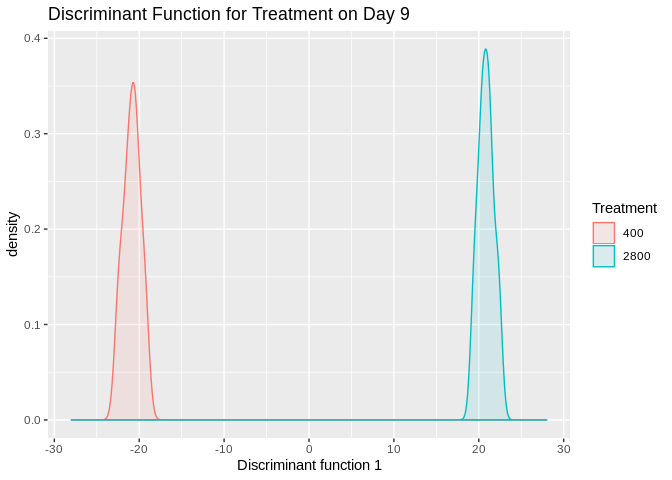
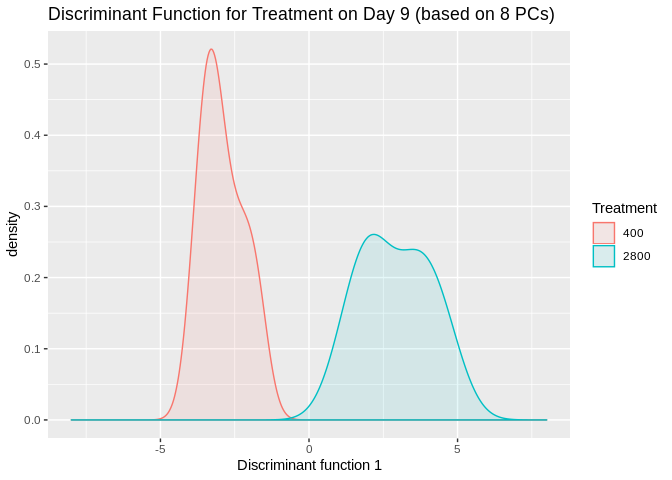
salmon run updates

diff --git a/markdown_files/Salmon_pipeline/02_salmon_multiVariateVisualization.md b/markdown_files/Salmon_pipeline/02_salmon_multiVariateVisualization.md
@@ -23,41 +23,33 @@ model$Pop <- as.factor(model$population)
 model$Lane <- as.factor(model$lane)
 model$SFV <-  interaction(model$Time,model$Treatment) # Creates single factor variable for combination of time and treatment
 
-gc <- readRDS("/home/downeyam/Github/2017OAExp_Oysters/input_files/salmon_RNA/out2/gene_countMatrix.RData")
+gc <- readRDS("/home/downeyam/Github/2017OAExp_Oysters/input_files/salmon_RNA/run20180512_gene_countMatrix_.RData")
+gc <- gc[-c(1:205),] #removing some no LOC genes (most trna)
 ```
 
 
 ```r
-(out <- adonis(t(gc)~Treatment*Time*Pop*Lane,data=model,permutations = 999))
+(out <- adonis(t(gc)~Treatment*Time+Pop+Lane,data=model,permutations = 999))
 ```
 
 ```
 ## 
 ## Call:
-## adonis(formula = t(gc) ~ Treatment * Time * Pop * Lane, data = model,      permutations = 999) 
+## adonis(formula = t(gc) ~ Treatment * Time + Pop + Lane, data = model,      permutations = 999) 
 ## 
 ## Permutation: free
 ## Number of permutations: 999
 ## 
 ## Terms added sequentially (first to last)
 ## 
-##                     Df SumsOfSqs  MeanSqs F.Model      R2 Pr(>F)   
-## Treatment            1   0.03682 0.036820 1.96940 0.08600  0.012 * 
-## Time                 1   0.03880 0.038800 2.07529 0.09062  0.004 **
-## Pop                  2   0.03294 0.016470 0.88092 0.07693  0.722   
-## Lane                 1   0.01824 0.018240 0.97562 0.04260  0.487   
-## Treatment:Time       1   0.01788 0.017880 0.95632 0.04176  0.506   
-## Treatment:Pop        2   0.03270 0.016349 0.87448 0.07637  0.746   
-## Time:Pop             2   0.03408 0.017039 0.91134 0.07959  0.674   
-## Treatment:Lane       1   0.01698 0.016983 0.90838 0.03967  0.618   
-## Time:Lane            1   0.01353 0.013528 0.72358 0.03160  0.912   
-## Pop:Lane             2   0.02765 0.013823 0.73933 0.06457  0.940   
-## Treatment:Time:Pop   2   0.03536 0.017681 0.94568 0.08259  0.617   
-## Treatment:Time:Lane  1   0.01446 0.014459 0.77337 0.03377  0.825   
-## Treatment:Pop:Lane   1   0.02109 0.021092 1.12815 0.04926  0.267   
-## Time:Pop:Lane        1   0.01286 0.012855 0.68759 0.03002  0.936   
-## Residuals            4   0.07478 0.018696         0.17466          
-## Total               23   0.42817                  1.00000          
+##                Df SumsOfSqs  MeanSqs F.Model      R2 Pr(>F)   
+## Treatment       1   0.03690 0.036898 2.21311 0.08615  0.003 **
+## Time            1   0.03884 0.038845 2.32990 0.09070  0.004 **
+## Pop             2   0.03303 0.016517 0.99066 0.07713  0.461   
+## Lane            1   0.01820 0.018199 1.09155 0.04249  0.254   
+## Treatment:Time  1   0.01787 0.017868 1.07175 0.04172  0.281   
+## Residuals      17   0.28343 0.016672         0.66180          
+## Total          23   0.42827                  1.00000          
 ## ---
 ## Signif. codes:  0 '***' 0.001 '**' 0.01 '*' 0.05 '.' 0.1 ' ' 1
 ```
@@ -76,10 +68,10 @@ ordiplot(prin_comp,type="n")
 orditorp(prin_comp,display="sites",labels = FALSE,col=model$colors,cex = 2,pch = 16)
 #ordiellipse(prin_comp,model$SFV,conf=0.90,col = color_comb,lwd = 3)
 ordispider(prin_comp,model$SFV,col = color_comb,lwd=2.5)
-legend(x=250,y=-200,legend = c("Day09_Control","Day80_Control","Day09_OA","Day80_OA"),pch = 16,col=color_comb,xpd = .25)
-text(x = -570 ,y = -300, paste0("Adonis P_Treatment = ",out$aov.tab$`Pr(>F)`[1],"*"))
-text(x = -580 ,y = -360, paste0("Adonis P_Duration = ",out$aov.tab$`Pr(>F)`[2],"*"))
-text(x = -570 ,y = -420, paste0("Adonis P_Interaction = ",out$aov.tab$`Pr(>F)`[3]))
+legend(x=220,y=-150,legend = c("Day09_Control","Day80_Control","Day09_OA","Day80_OA"),pch = 16,col=color_comb,xpd = .25)
+text(x = -538 ,y = -300, paste0("Adonis P_Treatment = ",out$aov.tab$`Pr(>F)`[1],"*"))
+text(x = -550 ,y = -360, paste0("Adonis P_Duration = ",out$aov.tab$`Pr(>F)`[2],"*"))
+text(x = -540 ,y = -420, paste0("Adonis P_Interaction = ",out$aov.tab$`Pr(>F)`[5]))
 ```
 
 ![](02_salmon_multiVariateVisualization_files/figure-html/unnamed-chunk-3-1.png)<!-- -->
@@ -95,13 +87,13 @@ cumsum(props)
 
 ```
 ##       PC1       PC2       PC3       PC4       PC5       PC6       PC7 
-## 0.2526612 0.3938696 0.4820698 0.5598705 0.6306883 0.6903224 0.7390851 
+## 0.2521577 0.3937149 0.4819127 0.5598985 0.6307584 0.6904549 0.7393132 
 ##       PC8       PC9      PC10      PC11      PC12      PC13      PC14 
-## 0.7855839 0.8140429 0.8411716 0.8626082 0.8816911 0.8996313 0.9153924 
+## 0.7858669 0.8141289 0.8412478 0.8626239 0.8814945 0.8994473 0.9152450 
 ##      PC15      PC16      PC17      PC18      PC19      PC20      PC21 
-## 0.9299432 0.9418634 0.9522087 0.9620362 0.9706965 0.9790986 0.9870562 
+## 0.9298163 0.9417580 0.9520958 0.9619097 0.9705773 0.9790004 0.9869943 
 ##      PC22      PC23      PC24 
-## 0.9944366 1.0000000 1.0000000
+## 0.9944101 1.0000000 1.0000000
 ```
 
 ```r
@@ -118,14 +110,14 @@ plot(cumsum(props)~c(1:24))
 early_time_counts <- gc[,model$Day == 9]
 early_time_meta <- model[model$Day == 9,]
 
-dapc_treatment_10<-dapc(t(early_time_counts),early_time_meta$treatment,n.pca=10,n.da=2)
+dapc_treatment_10<-dapc(t(early_time_counts),early_time_meta$treatment,n.pca=8,n.da=2)
 # PCs = 5
 # clusters = 1
 early_time_meta$discriminant_treatment_10 <- dapc_treatment_10$ind.coord
 
 ggplot(early_time_meta,aes(discriminant_treatment_10,fill=as.factor(treatment),colour=as.factor(treatment))) + 
-  geom_density(alpha=0.1) + xlim(-28,28) + 
-  labs(title="Discriminant Function for Treatment on Day 9",
+  geom_density(alpha=0.1) + xlim(-8,8) + 
+  labs(title="Discriminant Function for Treatment on Day 9 (based on 8 PCs)",
        x="Discriminant function 1",
        colour="Treatment",
        fill="Treatment")
@@ -145,15 +137,11 @@ late_time_meta$discriminant_treatment_10 <-predict_values$ind.scores
 whole_meta<- rbind(early_time_meta,late_time_meta)
 
 ggplot(whole_meta,aes(discriminant_treatment_10,fill=as.factor(interaction(Day,treatment)),colour=as.factor(interaction(Day,treatment)))) + 
-  geom_density(alpha=0.1,adjust=3) + xlim(-28,28) + 
+  geom_density(alpha=0.1) + xlim(-8,8) + 
   labs(title="Discriminant Function for Treatment on Day 9 - Mapped with Day 80 Samples",
        x="Discriminant function 1",
        colour="Day.Treatment",
        fill="Day.Treatment")
-```
-
-```
-## Warning: Removed 1 rows containing non-finite values (stat_density).
 ```
 
 ![](02_salmon_multiVariateVisualization_files/figure-html/unnamed-chunk-6-1.png)<!-- -->
@@ -163,7 +151,7 @@ ggplot(whole_meta,aes(discriminant_treatment_10,fill=as.factor(interaction(Day,t
 **Creating DF by treatment with first timepoint**  
 
 ```r
-dapc_SFV_10<-dapc(t(gc),model$SFV,n.pca=10,n.da=3)
+dapc_SFV_10<-dapc(t(gc),model$SFV,n.pca=8,n.da=3)
 # PCs = 10
 # clusters = 3
 output <- data.frame(Trt=model$Treatment,Time=model$Time,dapc_SFV_10$ind.coord)
